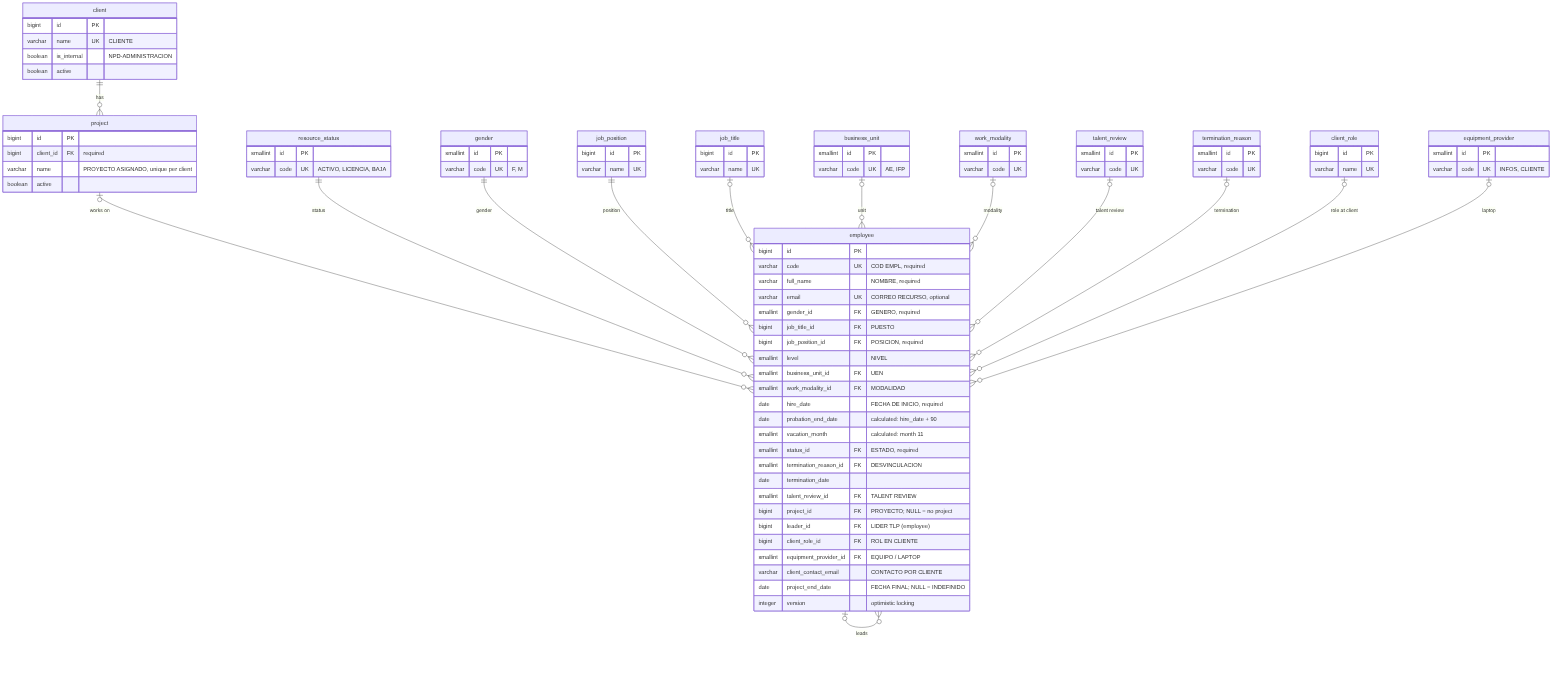
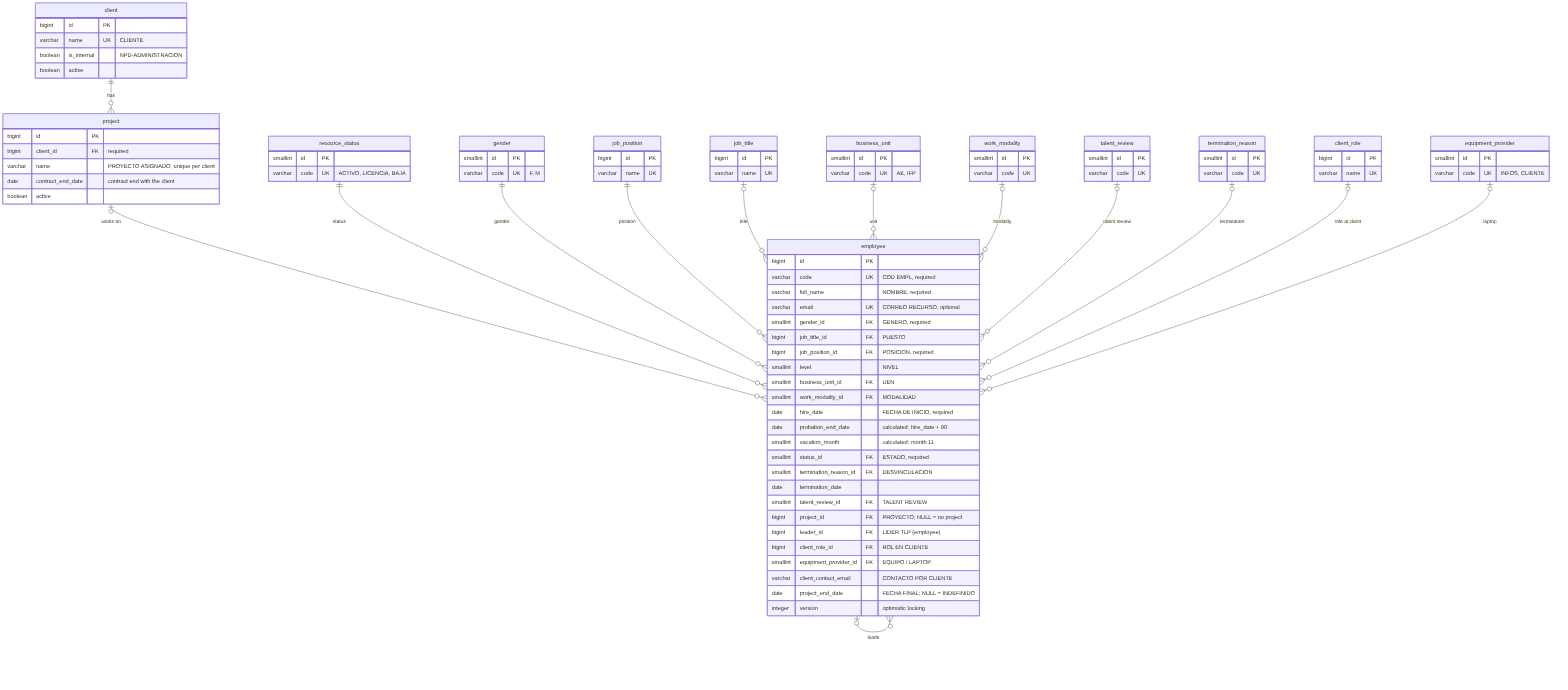
SCRUM-123 | Migracion V4: fin de contrato del proyecto y vistas del roster y de proyectos

diff --git a/src/test/java/com/npdinfosgroup/api/planner/importer/PlannerViewsTest.java b/src/test/java/com/npdinfosgroup/api/planner/importer/PlannerViewsTest.java
@@ -1,0 +1,117 @@
+package com.npdinfosgroup.api.planner.importer;
+
+import static com.npdinfosgroup.api.planner.importer.TestRows.row;
+import static org.assertj.core.api.Assertions.assertThat;
+
+import java.sql.Date;
+import java.time.LocalDate;
+import java.util.List;
+import java.util.Map;
+
+import com.npdinfosgroup.api.TestcontainersConfiguration;
+import org.junit.jupiter.api.Test;
+import org.springframework.beans.factory.annotation.Autowired;
+import org.springframework.boot.test.context.SpringBootTest;
+import org.springframework.context.annotation.Import;
+import org.springframework.jdbc.core.simple.JdbcClient;
+import org.springframework.transaction.annotation.Transactional;
+
+/**
+ * The views of migration V4 over imported rows: {@code resource_v} exposes ids and project dates,
+ * and {@code project_summary_v} sums up each project's team. Each test is rolled back.
+ */
+@SpringBootTest(webEnvironment = SpringBootTest.WebEnvironment.RANDOM_PORT)
+@Import(TestcontainersConfiguration.class)
+@Transactional
+class PlannerViewsTest {
+
+	private static final LocalDate TODAY = LocalDate.now();
+
+	@Autowired
+	private PlannerImportService importService;
+
+	@Autowired
+	private JdbcClient jdbc;
+
+	/**
+	 * {@code resource_v} keeps its planner columns and adds the project and leader ids, the project
+	 * dates and whether the project is active.
+	 */
+	@Test
+	void resourceViewExposesIdsAndProjectDates() {
+		importService.importRows(List.of(row(3, "900").with(PlannerColumn.LEADER_CODE, null).build(),
+				row(4, "100").with(PlannerColumn.CLIENT, null).with(PlannerColumn.PROJECT, null).build()), TODAY);
+		jdbc.sql("UPDATE project SET contract_end_date = DATE '2031-06-30' WHERE name = 'ACME-WEB'").update();
+
+		Map<String, Object> leader = jdbc.sql("""
+				SELECT r.client, r.project, r.project_id, r.client_id, r.project_active, r.project_start_date,
+				       r.contract_end_date, r.leader_id, p.id AS expected_project_id, p.client_id AS expected_client_id
+				FROM resource_v r
+				JOIN project p ON p.name = 'ACME-WEB'
+				WHERE r.employee_code = '900'""").query().singleRow();
+		assertThat(leader).containsEntry("client", "ACME")
+			.containsEntry("project", "ACME-WEB")
+			.containsEntry("project_id", leader.get("expected_project_id"))
+			.containsEntry("client_id", leader.get("expected_client_id"))
+			.containsEntry("project_active", true)
+			.containsEntry("contract_end_date", Date.valueOf("2031-06-30"))
+			.containsEntry("leader_id", null);
+		assertThat(leader.get("project_start_date")).isNotNull();
+
+		Map<String, Object> notSpecified = jdbc.sql("""
+				SELECT r.project, r.project_active, r.leader_id, l.id AS expected_leader_id
+				FROM resource_v r
+				JOIN employee l ON l.code = '900'
+				WHERE r.employee_code = '100'""").query().singleRow();
+		assertThat(notSpecified).containsEntry("project", "No especificado")
+			.containsEntry("project_active", false)
+			.containsEntry("leader_id", notSpecified.get("expected_leader_id"));
+	}
+
+	/**
+	 * {@code project_summary_v} counts the team without Baja, the members to confirm and the
+	 * indefinite ones, gives the next assignment end and lists projects without team.
+	 */
+	@Test
+	void projectSummaryCountsTheTeam() {
+		importService.importRows(List.of(
+				row(3, "100").projectEndDate(TODAY.minusDays(5), TODAY.minusDays(5).toString())
+					.with(PlannerColumn.PROJECT_END_MONTH, null)
+					.build(),
+				row(4, "101").projectEndDate(TODAY.plusDays(20), TODAY.plusDays(20).toString())
+					.with(PlannerColumn.PROJECT_END_MONTH, null)
+					.build(),
+				row(5, "102").projectEndDate(TODAY.plusDays(90), TODAY.plusDays(90).toString())
+					.with(PlannerColumn.PROJECT_END_MONTH, null)
+					.build(),
+				row(6, "103").projectEndDate(null, "INDEFINIDO").with(PlannerColumn.PROJECT_END_MONTH, null).build(),
+				row(7, "104").with(PlannerColumn.STATUS, "Baja").build()), TODAY);
+		jdbc.sql("""
+				INSERT INTO project (client_id, name, contract_end_date)
+				SELECT client_id, 'ACME-MOVIL', DATE '2031-01-31' FROM project WHERE name = 'ACME-WEB'""").update();
+
+		Map<String, Object> web = summary("ACME-WEB");
+		assertThat(web).containsEntry("client", "ACME")
+			.containsEntry("is_internal", false)
+			.containsEntry("active", true)
+			.containsEntry("team_size", 4L)
+			.containsEntry("pending_confirmation", 1L)
+			.containsEntry("indefinite_count", 1L)
+			.containsEntry("next_assignment_end", Date.valueOf(TODAY.plusDays(20)));
+		assertThat(web.get("start_date")).isNotNull();
+
+		Map<String, Object> mobile = summary("ACME-MOVIL");
+		assertThat(mobile).containsEntry("team_size", 0L)
+			.containsEntry("pending_confirmation", 0L)
+			.containsEntry("next_assignment_end", null)
+			.containsEntry("contract_end_date", Date.valueOf("2031-01-31"));
+	}
+
+	private Map<String, Object> summary(String project) {
+		return jdbc.sql("SELECT * FROM project_summary_v WHERE project = :project")
+			.param("project", project)
+			.query()
+			.singleRow();
+	}
+
+}

diff --git a/docs/database/README.md b/docs/database/README.md
@@ -7,6 +7,7 @@ PostgreSQL 18 schema, versioned with Flyway in [`src/main/resources/db/migration
 | `V1__create_catalogs.sql` | Catalogs, `client` and `project`; seeds the fixed catalogs |
 | `V2__create_employee.sql` | `employee` and the `resource_v` view |
 | `V3__prepare_planner_import.sql` | "No especificado" values for required fields the planner leaves empty |
+| `V4__projects_and_assignment_view.sql` | `project.contract_end_date`; `resource_v` with ids and project dates; `project_summary_v` |
 
 Images: [`er-diagram.png`](er-diagram.png). Editable diagram: [`er-diagram.drawio`](er-diagram.drawio) (open at https://app.diagrams.net).
 
@@ -24,6 +25,7 @@ erDiagram
         bigint id PK
         bigint client_id FK "required"
         varchar name "PROYECTO ASIGNADO, unique per client"
+        date contract_end_date "contract end with the client"
         boolean active
     }
     employee {
@@ -92,8 +94,11 @@ Every table also has `created_at` and `updated_at` (kept by the `set_updated_at`
 
 ## Rules
 
+- **One project per person.** `employee.project_id` is the current project; there is no assignment table.
 - **Projects exist on their own.** A project is created before anyone is placed on it, and stays when it has no employees. A client stays when it has no projects.
-- **Required in the database** only where every planner row has the value: code, name, gender, position, hire date and status. Project, NPD lead and work modality are required by the application but nullable in the database, because the planner has rows without them.
+- **A project has its own contract end** (`project.contract_end_date`), distinct from each employee's `project_end_date`. It drives the Sales alert at 30 and 15 days; `NULL` means no date. A project starts the day it is created (`project.created_at`).
+- **An employee may have no project** (`project_id` NULL = "Sin proyecto"): allowed when registering a new hire and when someone is removed from a project, which keeps the project.
+- **Required in the database** only where every planner row has the value: code, name, gender, position, hire date and status. NPD lead and work modality are required by the application but nullable in the database, because the planner has rows without them.
 - **Everything except client and project name belongs to the employee**: in the planner, lead, end date, client contact, laptop, role, level and modality change from person to person within the same project.
 - `email` is optional and unique case-insensitively. `code` is text (`SP11`).
 - `probation_end_date` and `vacation_month` are generated from `hire_date`; they match the planner on all its rows.
@@ -120,6 +125,36 @@ Rebuilds the planner, one row per employee, for the roster, the table view and e
 | `SIN_PROYECTO` | No project |
 | `PENDIENTE_CONFIRMACION` | `project_end_date` has passed and nobody has extended it |
 | `ASIGNADO` | Any other case |
+
+Besides the planner columns (names), it exposes ids and project data so the API groups and links without comparing names (a project name is only unique within its client):
+
+| Column | Source | Use |
+|---|---|---|
+| `project_id`, `client_id` | `employee.project_id`, `project.client_id` | Group the roster by project; link to the project detail |
+| `project_active` | `project.active` | Spot the inactive "No especificado" project and ask for a fix |
+| `project_start_date` | `project.created_at` | Start of the roster bar |
+| `contract_end_date` | `project.contract_end_date` | "Fin de contrato" column and alert |
+| `leader_id` | `employee.leader_id` | Filter an NPD lead's collaborators by id |
+
+## `project_summary_v`
+
+One row per project, with or without team, for the projects list and detail. Employees on Baja are not counted.
+
+| Column | Meaning |
+|---|---|
+| `project_id`, `client_id`, `client`, `is_internal`, `project`, `active` | The project and its client |
+| `start_date` | Day the project was created |
+| `contract_end_date` | Contract end with the client |
+| `team_size` | Employees on the project; `0` = "Sin equipo" |
+| `pending_confirmation` | Team members whose `project_end_date` has passed ("N por confirmar") |
+| `next_assignment_end` | Earliest `project_end_date` still to come |
+| `indefinite_count` | Team members without `project_end_date` (INDEFINIDO) |
+
+## API rules (not enforced by the database)
+
+- **Baja**: termination reason and date are required, and the employee leaves the project (`project_id` = NULL). A `CHECK` cannot read the status code, so the employee service enforces it.
+- **Deactivating a project** is only allowed when no active employee is on it.
+- **Bulk assignment** updates every employee in one transaction, checking each `version`: if one fails, nobody is assigned.
 
 ## Mapping of the planner columns
 
